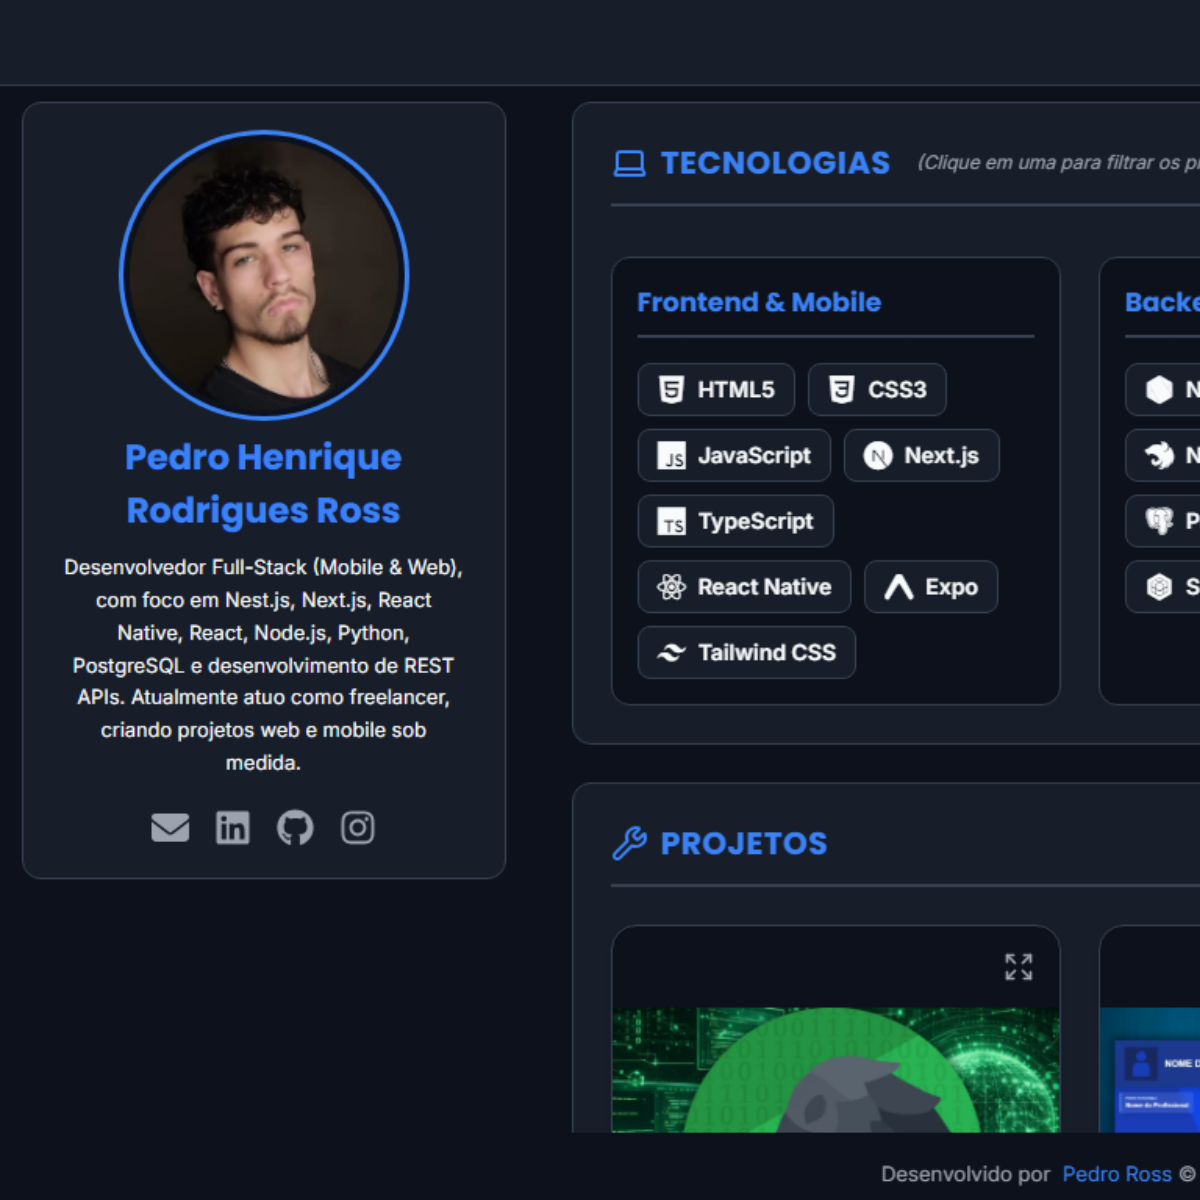
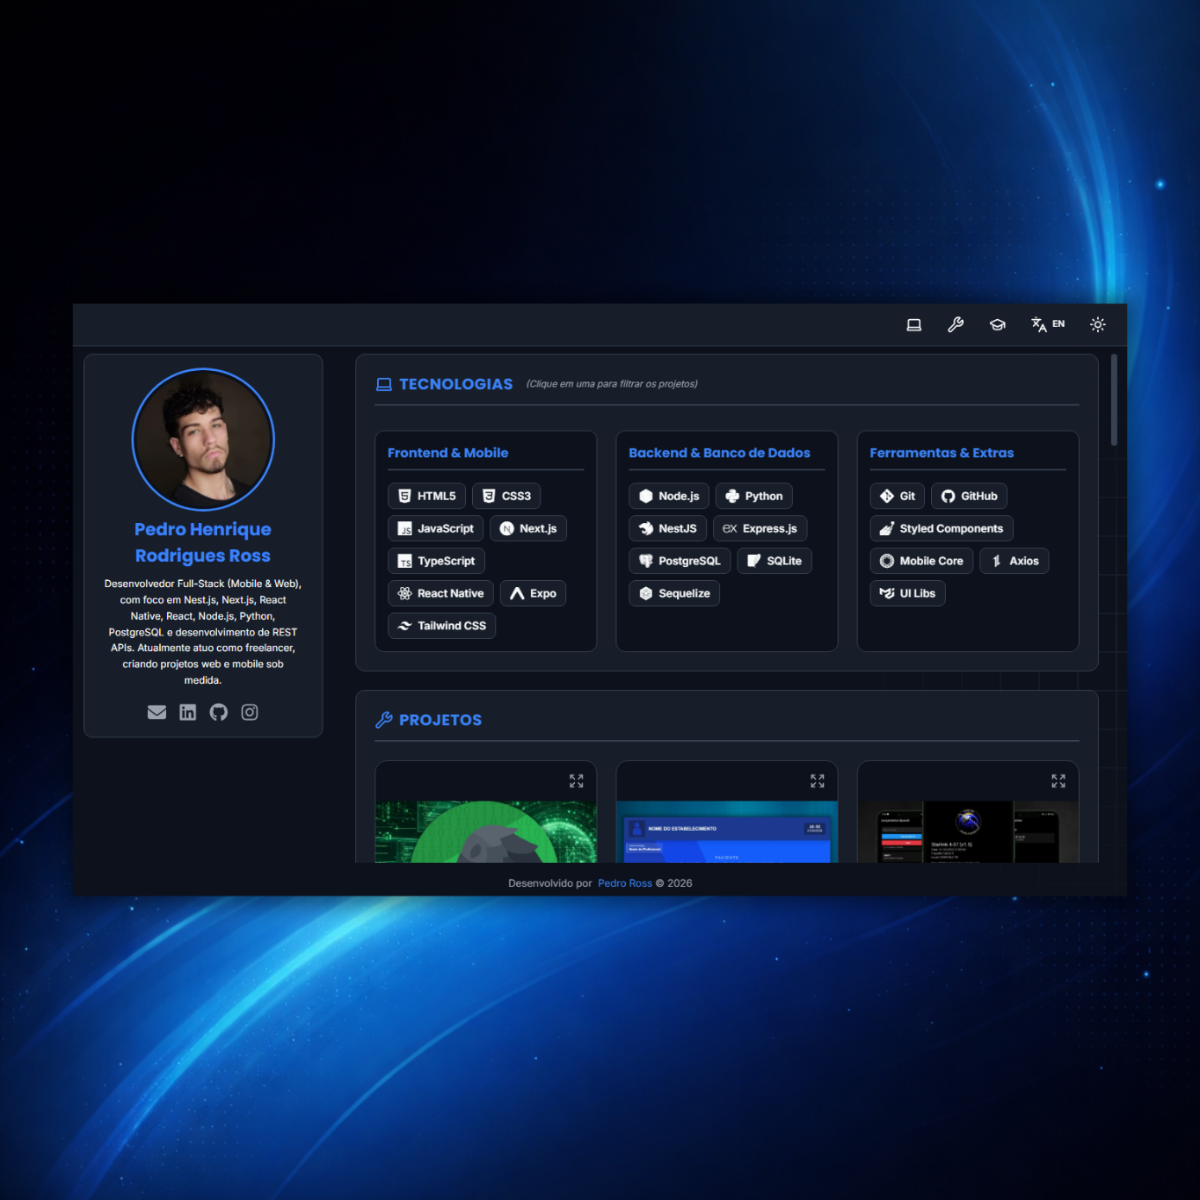
feat - unipass project

diff --git a/index.html b/index.html
@@ -93,6 +93,7 @@
                             <div class="tech-btn" data-filter="nestjs"><i class="devicon-nestjs-original"></i> NestJS</div>
                             <div class="tech-btn" data-filter="express"><i class="devicon-express-original"></i> Express.js</div>
                             <div class="tech-btn" data-filter="postgresql"><i class="devicon-postgresql-plain"></i> PostgreSQL</div>
+                            <div class="tech-btn" data-filter="prisma"><i class="devicon-prisma-original"></i> Prisma</div>
                             <div class="tech-btn" data-filter="sqlite"><i class="devicon-sqlite-plain"></i> SQLite</div>
                             <div class="tech-btn" data-filter="sequelize"><i class="devicon-sequelize-plain"></i> Sequelize</div>
                         </div>
@@ -107,6 +108,7 @@
                             <div class="tech-btn" data-filter="ecossistemareactnative"><i class="devicon-reactnavigation-original"></i> Mobile Core</div>
                             <div class="tech-btn" data-filter="axios"><i class="devicon-axios-plain"></i> Axios</div>
                             <div class="tech-btn" data-filter="recursosui"><i class="devicon-materialui-plain"></i> UI Libs</div>
+                            <div class="tech-btn" data-filter="iot"><i class="fa-solid fa-microchip"></i> IoT</div>
                         </div>
                     </div>
                 </div>
@@ -170,6 +172,88 @@
 
                             <div class="links">
                                 <a href="mailto:laborwaze@gmail.com" class="botao-link gmail"><i class="fa-solid fa-envelope"></i> Gmail</a>
+                            </div>
+                        </div>
+                    </div>
+
+                    <!-- PROJETO UNIPASS -->
+                    <div class="projeto" data-tech="react nextjs typescript tailwindcss nestjs nodejs prisma postgresql git github iot">
+                        <div class="projeto-controle">
+                            <button class="btn-expandir" title="Expandir/Recolher"><i class="fa-solid fa-expand"></i></button>
+                        </div>
+
+                        <div class="projeto-imagem-wrapper">
+                            <img src="images/projects/unipass-project.png" alt="Projeto UniPass IoT" class="foto-projeto">
+                        </div>
+
+                        <div class="projeto-resumo-container">
+                            <img src="images/icons/unipass-icon.png" alt="Icon UniPass" class="icone-projeto">
+                            <div class="textos-iniciais">
+                                <h3 class="titulo" data-i18n="titulo-unipass">UniPass - Transporte com IoT</h3>
+                                <p class="resumo" data-i18n="resumo-unipass">Plataforma SaaS com controle de presença via RFID, integração IoT com ESP32 e 4G e monitoramento em tempo real para frotas.</p>
+                            </div>
+                        </div>
+
+                        <div class="projeto-especificacoes">
+                            <h4 data-i18n="T1-unipass">O problema e a solução</h4>
+                            <p data-i18n="P1-unipass">O UniPass foi criado para resolver um desafio real da operação logística. A proposta foi substituir processos dispersos por uma plataforma conectada, unindo gestão, rastreamento e controle de acesso em uma experiência simples para quem vive a rotina do transporte todos os dias.</p>
+
+                            <h4 data-i18n="T2-unipass">Funcionalidades e diferenciais</h4>
+                            <p data-i18n="P2-unipass">O sistema opera como uma plataforma SaaS com arquitetura multiempresa (multi-tenant), reunindo em um só ecossistema:</p>
+                            <ul>
+                                <li data-i18n="L1-unipass"><strong>Gestão Centralizada:</strong> Dashboard web para administrar alunos, veículos, usuários e dispositivos de forma organizada.</li>
+                                <li data-i18n="L2-unipass"><strong>Integração IoT:</strong> Comunicação com dispositivos ESP32 via conectividade 4G para telemetria, localização e leitura de tags RFID.</li>
+                                <li data-i18n="L3-unipass"><strong>Controle de Embarque:</strong> Validação automática da capacidade do veículo e registro de presença dos passageiros em tempo real.</li>
+                                <li data-i18n="L4-unipass"><strong>Resiliência Offline-First:</strong> Operação preparada para áreas de sombra, com sincronização automática quando a conexão é restabelecida.</li>
+                            </ul>
+
+                            <h4 data-i18n="T3-unipass">Visão técnica e próximos passos</h4>
+                            <p data-i18n="P3-unipass">Mais do que desenvolver telas, o foco foi estruturar um produto com visão de operação, confiabilidade e escala. O projeto utiliza Next.js no frontend, NestJS no backend e PostgreSQL com Prisma na camada de dados, criando uma base sólida para a próxima etapa: expandir a experiência com um aplicativo mobile.</p>
+
+                            <h4 data-i18n="T4-unipass">Tecnologias utilizadas</h4>
+                            <div class="tech-grid tech-grid--fill-last-row">
+                                <div class="tech-category">
+                                    <h5>Frontend</h5>
+                                    <ul>
+                                        <li>Next.js</li>
+                                        <li>React</li>
+                                        <li>TypeScript</li>
+                                        <li>Tailwind CSS</li>
+                                    </ul>
+                                </div>
+
+                                <div class="tech-category">
+                                    <h5>Backend</h5>
+                                    <ul>
+                                        <li>NestJS</li>
+                                        <li>Node.js</li>
+                                        <li>Prisma</li>
+                                    </ul>
+                                </div>
+                                
+                                <div class="tech-category">
+                                    <h5 data-i18n="banco-de-dados">Banco de Dados</h5>
+                                    <ul>
+                                        <li>PostgreSQL</li>
+                                    </ul>
+                                </div>
+
+                                <div class="tech-category">
+                                    <h5 data-i18n="iot-dispositivos">IoT & Dispositivos</h5>
+                                    <ul>
+                                        <li>ESP32</li>
+                                        <li>RFID</li>
+                                        <li>4G</li>
+                                    </ul>
+                                </div>
+
+                                <div class="tech-category">
+                                    <h5 data-i18n="ferramentas">Ferramentas</h5>
+                                    <ul>
+                                        <li>Git</li>
+                                        <li>GitHub</li>
+                                    </ul>
+                                </div>
                             </div>
                         </div>
                     </div>

diff --git a/scripts/translations.js b/scripts/translations.js
@@ -36,6 +36,32 @@ const translations = {
 
         "P6-laborwaze": "Para dúvidas, propostas ou qualquer tipo de contato relacionado aos projetos da iniciativa, é possível entrar em contato diretamente pelo e-mail abaixo:",
 
+        "titulo-unipass": "UniPass - Transporte com IoT",
+
+        "resumo-unipass": "Plataforma SaaS com controle de presença via RFID, integração IoT com ESP32 e 4G e monitoramento em tempo real para frotas.",
+
+        "T1-unipass": "O problema e a solução",
+
+        "P1-unipass": "O UniPass foi criado para resolver um desafio real da operação logística. A proposta foi substituir processos dispersos por uma plataforma conectada, unindo gestão, rastreamento e controle de acesso em uma experiência simples para quem vive a rotina do transporte todos os dias.",
+
+        "T2-unipass": "Funcionalidades e diferenciais",
+
+        "P2-unipass": "O sistema opera como uma plataforma SaaS com arquitetura multiempresa (multi-tenant), reunindo em um só ecossistema:",
+
+        "L1-unipass": "<strong>Gestão Centralizada:</strong> Dashboard web para administrar alunos, veículos, usuários e dispositivos de forma organizada.",
+
+        "L2-unipass": "<strong>Integração IoT:</strong> Comunicação com dispositivos ESP32 via conectividade 4G para telemetria, localização e leitura de tags RFID.",
+
+        "L3-unipass": "<strong>Controle de Embarque:</strong> Validação automática da capacidade do veículo e registro de presença dos passageiros em tempo real.",
+
+        "L4-unipass": "<strong>Resiliência Offline-First:</strong> Operação preparada para áreas de sombra, com sincronização automática quando a conexão é restabelecida.",
+
+        "T3-unipass": "Visão técnica e próximos passos",
+
+        "P3-unipass": "Mais do que desenvolver telas, o foco foi estruturar um produto com visão de operação, confiabilidade e escala. O projeto utiliza Next.js no frontend, NestJS no backend e PostgreSQL com Prisma na camada de dados, criando uma base sólida para a próxima etapa: expandir a experiência com um aplicativo mobile.",
+
+        "T4-unipass": "Tecnologias utilizadas",
+
         "titulo-painel": "Painel de Chamadas",
 
         "resumo-painel": "Sistema full-stack desenvolvido para otimizar o fluxo de atendimento em hospitais.",
@@ -75,6 +101,8 @@ const translations = {
         "P11-painel": "O Painel de Chamadas foi desenvolvido utilizando uma arquitetura full-stack moderna, voltada para desempenho, organização de código e facilidade de manutenção. O sistema combina tecnologias de frontend, backend, banco de dados e controle de versão para garantir estabilidade e escalabilidade.",
 
         "banco-de-dados": "Banco de Dados",
+
+        "iot-dispositivos": "IoT & Dispositivos",
 
         "ferramentas": "Ferramentas",
 
@@ -588,6 +616,32 @@ const translations = {
 
         "P6-laborwaze": "For questions, proposals, or any type of contact related to the initiative's projects, you can get in touch directly through the email below:",
 
+        "titulo-unipass": "UniPass - IoT Transport Platform",
+
+        "resumo-unipass": "SaaS platform with RFID attendance control, IoT integration via ESP32 and 4G, and real-time fleet monitoring.",
+
+        "T1-unipass": "The problem and the solution",
+
+        "P1-unipass": "UniPass was created to solve a real logistics operations challenge. The goal was to replace scattered processes with a connected platform that brings management, tracking, and access control together in a simple experience for people who deal with transport routines every day.",
+
+        "T2-unipass": "Features and differentiators",
+
+        "P2-unipass": "The system operates as a SaaS platform with a multi-company (multi-tenant) architecture, bringing together a complete ecosystem:",
+
+        "L1-unipass": "<strong>Centralized Management:</strong> Web dashboard to manage students, vehicles, users, and devices in an organized way.",
+
+        "L2-unipass": "<strong>IoT Integration:</strong> Communication with ESP32 devices over 4G connectivity for telemetry, location tracking, and RFID tag reading.",
+
+        "L3-unipass": "<strong>Boarding Control:</strong> Automatic vehicle capacity validation and real-time passenger attendance logging.",
+
+        "L4-unipass": "<strong>Offline-First Resilience:</strong> Built for low-coverage areas, with automatic sync once the connection is restored.",
+
+        "T3-unipass": "Technical overview and next steps",
+
+        "P3-unipass": "More than building screens, the focus was to structure a product with operations, reliability, and scale in mind. The project uses Next.js on the frontend, NestJS on the backend, and PostgreSQL with Prisma in the data layer, creating a solid foundation for the next step: expanding the experience with a mobile app.",
+
+        "T4-unipass": "Technologies used",
+
         "titulo-painel": "Call Panel",
 
         "resumo-painel": "Full-stack system developed to optimize the service flow in hospitals.",
@@ -627,6 +681,8 @@ const translations = {
         "P11-painel": "The Call Panel was developed using a modern full-stack architecture focused on performance, code organization, and ease of maintenance. The system combines frontend, backend, database, and version control technologies to ensure stability and scalability.",
 
         "banco-de-dados": "Databases",
+
+        "iot-dispositivos": "IoT & Devices",
 
         "ferramentas": "Tools",
 

diff --git a/styles/style.css b/styles/style.css
@@ -636,6 +636,10 @@ article#projetos h2 {
     margin: 20px 0;
 }
 
+.tech-grid--fill-last-row .tech-category:last-child {
+    grid-column: 1 / -1;
+}
+
 .tech-category {
     background: rgba(255,255,255,0.04);
     padding: 12px;
